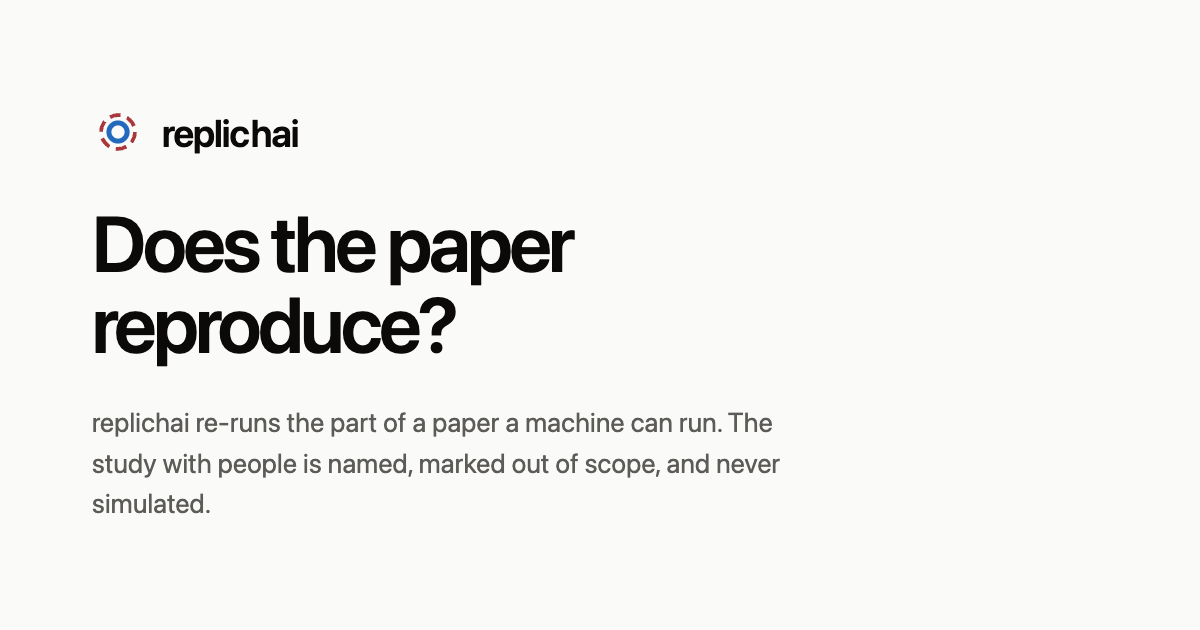
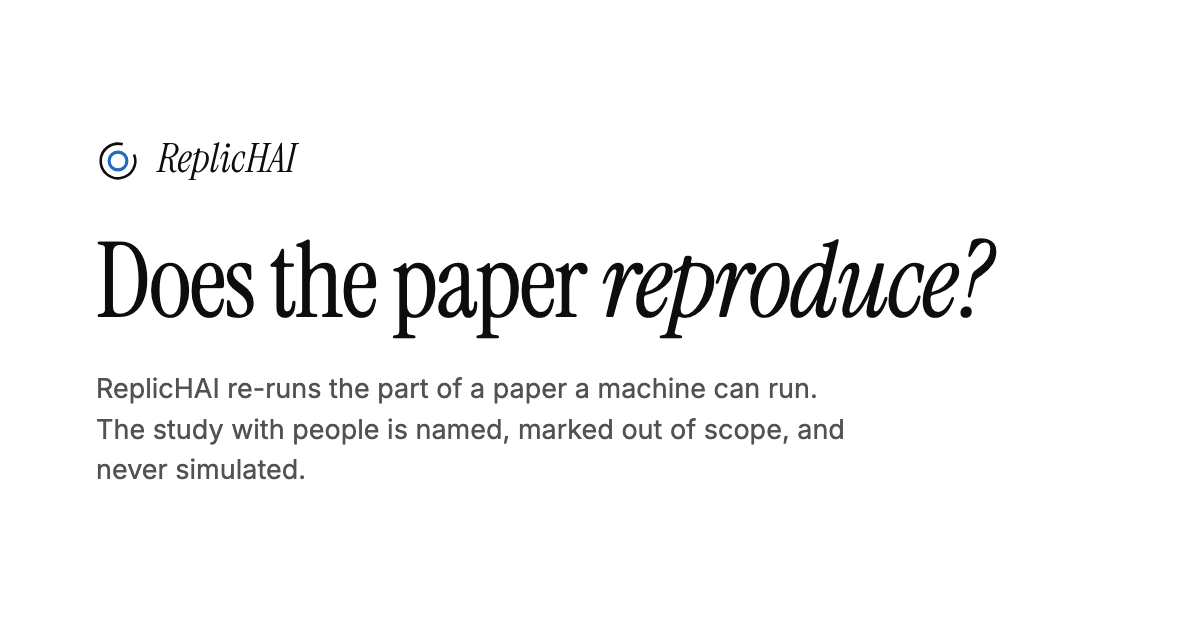
frontend: the mark's outer loop is one open arc, and the wordmark is drawn in the family's serif

Changed region(s): [[0.0617, 0.3317, 0.8325, 0.6333], [0.0617, 0.6635, 0.7092, 0.8143], [0.0617, 0.181, 0.2467, 0.3016]]

diff --git a/frontend/src/brand.tsx b/frontend/src/brand.tsx
@@ -1,27 +1,53 @@
 // SPDX-FileCopyrightText: 2026 Latere AI
 // SPDX-License-Identifier: AGPL-3.0-or-later
 
-// The identity: one drawn mark and one wordmark, used wherever the product
-// names itself. It is kept apart from `icons.tsx` because an icon inherits
-// `currentColor` so the same glyph can sit in a brand button and a muted row,
-// while the mark owns its color and must look the same in every context.
+// The identity: one drawn mark and one drawn wordmark, used wherever the
+// product names itself. It is kept apart from `icons.tsx` because an icon
+// inherits `currentColor` so the same glyph can sit in a button and a muted
+// row, while the mark owns its colors and must look the same in every context.
 //
-// Nothing here depends on a font. The mark it replaced was the character `r`
-// set in `--font-serif: 'Instrument Serif'`, which the app did not ship, so the
-// identity had always rendered in Georgia without anyone deciding that. The
-// app self-hosts the face now, but this file still uses no font: a wordmark
-// that waits on a download can be missing, whether or not the download is in
-// the repo. The shared footer opens with this lockup too, as the header sets it.
+// Nothing here depends on a font. The wordmark is set in the family's face,
+// Instrument Serif italic, the face latere-ui sets the product's name in on
+// every other Latere site, but as outlines rather than as text: an identity
+// that waits on a download can be missing, and one drawn as paths cannot.
 
-// Mark draws the boundary the product defends. The inner loop, the algorithm,
-// model or analysis pipeline, is mechanically re-runnable, so it is a closed
-// ring. The outer loop is the study with human participants, which replichai
-// never simulates, so it is drawn open. The dashes are sized against the outer
-// circumference of 2π × 9.25 ≈ 58.1 to give six even segments, so the ring
-// never shows a short one where it closes. There are six and not more because
-// the mark sits beside spinners in this app, and a ring of many small dashes
-// looks like a spinner.
+// The mark draws the boundary the product defends (017). The inner loop, the
+// algorithm, model or analysis pipeline, is mechanically re-runnable, so it is
+// a closed ring, in the product's azure. The outer loop is the study with human
+// participants, which replichai never simulates, so it is drawn open: one arc
+// with one deliberate gap (047). It was six dashes until 047, and a ring of
+// dashes reads as a loading indicator or a selection marquee; a ring with one
+// gap reads as unfinished, which is the claim.
+//
+// The gap is centered up and to the right, away from the wordmark, so the
+// opening never reads as a letter beside the name. The radius ratio is 017's,
+// so the mark, the hero figure and the favicon are one geometry.
+export const MARK_GAP_AT = -48
+export const MARK_GAP = 52
+
+// markArc is the outer loop's path: a circle of radius r about (cx, cy) with
+// the gap cut out, drawn clockwise from one side of the gap to the other.
+export function markArc(cx: number, cy: number, r: number, gapAt = MARK_GAP_AT, gap = MARK_GAP) {
+  const at = (deg: number) => {
+    const a = (deg * Math.PI) / 180
+    return `${(cx + r * Math.cos(a)).toFixed(3)} ${(cy + r * Math.sin(a)).toFixed(3)}`
+  }
+  return `M${at(gapAt + gap / 2)}A${r} ${r} 0 1 1 ${at(gapAt - gap / 2)}`
+}
+
+// Optical sizes. One drawing at every size is either too thin to survive in a
+// browser tab or too heavy to look exact at the size of a figure, so the
+// strokes thin as the mark grows, and the inner ring stays the heavier of the
+// two at every size because it is the half the product stands behind.
+const OPTICAL = [
+  { upTo: 20, outer: 2.2, inner: 2.4, ri: 4.6, ro: 9.2 },
+  { upTo: 32, outer: 1.8, inner: 2.1, ri: 4.75, ro: 9.35 },
+  { upTo: 64, outer: 1.4, inner: 1.7, ri: 4.85, ro: 9.45 },
+  { upTo: Infinity, outer: 1.05, inner: 1.3, ri: 4.9, ro: 9.55 },
+] as const
+
 export function Mark({ size = 24, className }: { size?: number; className?: string }) {
+  const o = OPTICAL.find((s) => size <= s.upTo) ?? OPTICAL[OPTICAL.length - 1]
   return (
     <svg
       className={className ? `mark ${className}` : 'mark'}
@@ -32,22 +58,37 @@ export function Mark({ size = 24, className }: { size?: number; className?: stri
       aria-hidden="true"
       focusable="false"
     >
-      <circle className="mark-outer" cx="12" cy="12" r="9.25" strokeWidth="1.9" strokeDasharray="6.0 3.687" />
-      <circle className="mark-inner" cx="12" cy="12" r="5" strokeWidth="2.6" />
+      <path className="mark-outer" d={markArc(12, 12, o.ro)} strokeWidth={o.outer} />
+      <circle className="mark-inner" cx="12" cy="12" r={o.ri} strokeWidth={o.inner} />
     </svg>
   )
 }
 
-// Wordmark sets the name as one word with a hairline gap at its seam between
-// `Replic`, for replication, and `HAI`, for human-AI, the lineage the
-// `open-hai` forge account already carries. The seam is spacing, not color:
-// the stylesheet reserves the brand hue for what the operator can act on, and a
-// two-tone wordmark would spend it on decoration.
+// The wordmark's outlines: "Replic" and "HAI" from Instrument Serif italic at
+// 100 units, kerned, with two units of optical gap at the seam. `Replic` is for
+// replication and `HAI` for human-AI, the lineage the `open-hai` forge account
+// carries; the seam is spacing, never color. Regenerate rather than edit: the
+// numbers are the face's, laid out by opentype.js.
+const WORD_W = 353.7
+const WORD_H = 94.8
+const REPLIC = 'M43.8 75.2L43.8 75.2Q39.6 75.2 37 72.2Q34.3 69.2 34.4 63.8L34.4 63.8L34.5 52.7Q34.6 47.3 33.9 44.5Q33.2 41.7 31.3 40.7Q29.4 39.7 25.7 39.7L25.7 39.7Q23.5 39.7 22.5 40.5Q21.4 41.3 21 43L21 43L15.2 67.3Q14.7 69.4 15.3 70.2Q15.9 71 18.4 71.4L18.4 71.4L22.8 72Q24.2 72.1 24.2 73.1L24.2 73.1Q24.2 74.3 22.6 74.3L22.6 74.3L1.4 74.3Q0 74.3 0 73.3L0 73.3Q0 72.2 2 71.9L2 71.9L4 71.6Q6.2 71.3 7.1 70.6Q7.9 69.8 8.3 67.7L8.3 67.7L21.9 8.9Q22.4 6.8 21.9 6.1Q21.4 5.4 19.4 5L19.4 5L17.4 4.6Q16.1 4.3 16.1 3.5L16.1 3.5Q16.1 2.3 17.9 2.3L17.9 2.3L38.2 2.3Q44.1 2.3 48 4.4Q51.9 6.5 53.9 10Q55.8 13.5 55.8 17.7L55.8 17.7Q55.8 23 53.1 27.3Q50.4 31.6 46.1 34.6Q41.7 37.5 36.7 38.9L36.7 38.9Q36.1 39 36.1 39.4Q36 39.9 36.6 40.2L36.6 40.2Q39.4 41.7 40.4 44.4Q41.4 47.1 41.4 51.6L41.4 51.6L41.4 61.8Q41.4 67.3 42.6 69.4Q43.8 71.4 45.9 71.4L45.9 71.4Q46.7 71.4 47.3 71.1Q47.9 70.9 48.9 70.2L48.9 70.2Q49.7 69.5 50.4 69.8Q51 70.1 51 70.9L51 70.9Q51 72.3 48.9 73.8Q46.8 75.2 43.8 75.2ZM29.2 37.2L29.2 37.2Q34.2 37.2 38.6 34.5Q43 31.8 45.8 27.2Q48.5 22.6 48.5 16.9L48.5 16.9Q48.5 11.3 45.8 8Q43 4.8 36.2 4.8L36.2 4.8Q29.8 4.8 28.8 8.8L28.8 8.8L23.5 31.7Q22.2 37.2 29.2 37.2ZM65.8 75.2L65.8 75.2Q60.5 75.2 57.3 71.1Q54.1 66.9 54.1 59.3L54.1 59.3Q54.1 52.7 56.5 46.2Q58.8 39.7 62.6 34.4Q66.4 29.1 70.9 25.9Q75.5 22.7 79.8 22.7L79.8 22.7Q84.5 22.7 86.5 24.9Q88.6 27.2 88.6 31L88.6 31Q88.6 35.5 85.4 39.9Q82.3 44.4 76.6 47.9Q71 51.4 63.4 53.1L63.4 53.1Q61.2 53.6 61.1 55.6L61.1 55.6Q61 56.3 61 57.1Q61 57.8 61 58.5L61 58.5Q61 64.2 63 67.1Q64.9 70 68.3 70L68.3 70Q72.1 70 75.6 66.5Q79.2 63 81.6 56.6L81.6 56.6Q81.9 55.7 82.8 55.7L82.8 55.7Q83.4 55.7 83.6 56.2Q83.7 56.7 83.5 57.4L83.5 57.4Q80.3 66.2 75.8 70.7Q71.2 75.2 65.8 75.2ZM62.1 49.3L62.1 49.3Q61.9 50 62.4 50.4Q62.8 50.9 63.5 50.7L63.5 50.7Q69.7 49 73.9 45.6Q78.1 42.1 80.3 37.8Q82.4 33.5 82.4 29.4L82.4 29.4Q82.4 25.2 79.1 25.2L79.1 25.2Q76.2 25.2 72.8 28.6Q69.4 32 66.5 37.5Q63.6 43 62.1 49.3ZM98.1 94.8L80.1 94.8Q78.8 94.8 78.8 93.7L78.8 93.7Q78.8 92.7 80.4 92.5L80.4 92.5L81.8 92.3Q83.8 92 84.7 91.2Q85.7 90.3 86.2 88.1L86.2 88.1L99.5 30.7Q99.7 29.9 99.2 29.4Q98.8 29 98 29.5L98 29.5Q97 30 96.1 30.6Q95.2 31.1 94.3 31.7L94.3 31.7Q93.4 32.3 92.8 32.1Q92.2 31.8 92.2 31.1L92.2 31.1Q92.2 30.4 93.2 29.7L93.2 29.7Q96 27.8 99 26.4L99 26.4Q100.7 25.6 101.1 23.8L101.1 23.8L102.4 18.1Q102.9 16 105 16L105 16L106.8 16Q108 16 108.6 16.7Q109.2 17.4 108.9 18.7L108.9 18.7L108.2 21.6Q107.9 23.3 109.5 23L109.5 23Q111.8 22.7 113.9 22.7L113.9 22.7Q121.3 22.7 126 26.9Q130.7 31.1 130.7 39.8L130.7 39.8Q130.7 46.6 128.2 53Q125.7 59.3 121.6 64.3Q117.5 69.3 112.6 72.3Q107.7 75.2 102.8 75.2L102.8 75.2Q100.1 75.2 97.7 74.1L97.7 74.1Q96.2 73.4 95.9 74.9L95.9 74.9L92.9 88.1Q92.4 90.3 92.9 91Q93.5 91.7 95.4 92L95.4 92L98 92.4Q99.8 92.7 99.8 93.6L99.8 93.6Q99.8 94.8 98.1 94.8L98.1 94.8ZM106.6 28.8L98.7 62.8Q96.9 72.7 103 72.7L103 72.7Q106.5 72.7 110.1 69.8Q113.7 66.8 116.8 61.9Q119.9 56.9 121.8 50.7Q123.7 44.5 123.7 38L123.7 38Q123.7 31.3 120.8 28.3Q117.9 25.4 112.3 25.4L112.3 25.4Q107.3 25.4 106.6 28.8L106.6 28.8ZM140.1 75.3L140.1 75.3Q136.8 75.3 135.4 72.9Q134 70.4 135.3 64.8L135.3 64.8L148 10.3Q148.5 8.5 148 7.8Q147.6 7.1 146.2 7L146.2 7L143.2 6.7Q141.7 6.6 141.9 5.4L141.9 5.4Q142.1 4.5 143.3 4.3L143.3 4.3Q146.9 3.7 149.7 2.8Q152.5 2 154.2 0.6L154.2 0.6Q155 0 155.7 0L155.7 0Q156.9 0 156.6 1.5L156.6 1.5L141.8 64.9Q141.3 67.1 141.6 68.4Q142 69.6 143.5 69.6L143.5 69.6Q145.3 69.6 147.5 67Q149.6 64.3 152.3 56.9L152.3 56.9Q152.7 55.6 153.7 55.6L153.7 55.6Q155.2 55.6 154.5 57.4L154.5 57.4Q152.4 64.2 149.9 68.1Q147.3 72.1 144.8 73.7Q142.3 75.3 140.1 75.3ZM177.1 13.8L177.1 13.8Q175.2 13.8 174 12.4Q172.7 11.1 172.7 9.2L172.7 9.2Q172.7 6.5 174.4 4.9Q176 3.3 178.1 3.3L178.1 3.3Q180.1 3.3 181.5 4.5Q182.8 5.8 182.8 7.8L182.8 7.8Q182.8 10.6 181.1 12.2Q179.4 13.8 177.1 13.8ZM168.9 75.3L168.9 75.3Q165.6 75.3 164.2 72.9Q162.8 70.4 164.1 64.8L164.1 64.8L171.5 33.1Q172 30.9 171.6 29.6Q171.3 28.4 169.8 28.4L169.8 28.4Q168 28.4 165.9 31.1Q163.7 33.7 161 41.1L161 41.1Q160.6 42.4 159.6 42.4L159.6 42.4Q158.1 42.4 158.8 40.6L158.8 40.6Q161 33.7 163.5 29.8Q165.9 25.9 168.4 24.3Q170.9 22.7 173 22.7L173 22.7Q176.5 22.7 177.9 25.1Q179.3 27.6 178 33.2L178 33.2L170.6 64.9Q170.1 67.1 170.5 68.4Q170.8 69.6 172.3 69.6L172.3 69.6Q174.1 69.6 176.3 67Q178.4 64.3 181.1 56.9L181.1 56.9Q181.5 55.6 182.5 55.6L182.5 55.6Q184 55.6 183.3 57.4L183.3 57.4Q181.2 64.2 178.7 68.1Q176.1 72.1 173.6 73.7Q171.1 75.3 168.9 75.3ZM199.7 75.2L199.7 75.2Q194.2 75.2 190.6 70.6Q187 66.1 187 59L187 59Q187 52.3 189.2 45.8Q191.3 39.4 195 34.1Q198.6 28.9 203.1 25.8Q207.5 22.7 212 22.7L212 22.7Q216.8 22.7 220.1 25.3L220.1 25.3Q220.6 25.7 220.7 25.9Q220.8 26.2 220.6 27L220.6 27L217.9 40.1Q217.6 41.5 216.6 41.5L216.6 41.5Q215.5 41.5 215.3 40L215.3 40L214.8 32.9Q214.5 28.3 213.5 26.9Q212.4 25.5 210.4 25.5L210.4 25.5Q207.6 25.5 204.7 28.2Q201.8 31 199.4 35.6Q196.9 40.3 195.5 45.9Q194 51.6 194 57.4L194 57.4Q194 70 202.2 70L202.2 70Q206.1 70 209.3 66.4Q212.4 62.8 215.1 55.2L215.1 55.2Q215.4 54.2 216.5 54.2L216.5 54.2Q217.1 54.2 217.2 54.6Q217.3 55.1 217 56.4L217 56.4Q216 61.9 213.4 66.1Q210.8 70.3 207.3 72.8Q203.7 75.2 199.7 75.2Z'
+const HAI = 'M238.4 74.3L220.4 74.3Q219 74.3 219 73.3L219 73.3Q219 72.2 221 71.9L221 71.9L223 71.6Q225.2 71.3 226.1 70.6Q226.9 69.8 227.3 67.7L227.3 67.7L240.9 8.9Q241.4 6.8 240.9 6.1Q240.4 5.4 238.4 5L238.4 5L236.4 4.6Q235.1 4.3 235.1 3.5L235.1 3.5Q235.1 2.3 236.9 2.3L236.9 2.3L254.9 2.3Q256.3 2.3 256.3 3.4L256.3 3.4Q256.3 4.5 254.5 4.7L254.5 4.7L252.1 5Q249.9 5.3 249.1 6.1Q248.3 6.9 247.8 9L247.8 9L242 34.1Q241.7 35.5 243.1 35.5L243.1 35.5L262.9 35.5Q264.3 35.5 264.6 34.1L264.6 34.1L270.4 9Q270.9 6.9 270.4 6.1Q269.9 5.3 267.9 5L267.9 5L265.7 4.7Q264.3 4.6 264.3 3.5L264.3 3.5Q264.3 2.3 266.2 2.3L266.2 2.3L284.2 2.3Q285.6 2.3 285.6 3.3L285.6 3.3Q285.6 4.4 283.6 4.7L283.6 4.7L281.6 5Q279.4 5.3 278.6 6Q277.8 6.8 277.3 8.9L277.3 8.9L263.7 67.7Q263.3 69.8 263.8 70.5Q264.2 71.2 266.2 71.6L266.2 71.6L268.2 72Q269.5 72.3 269.5 73.1L269.5 73.1Q269.5 74.3 267.7 74.3L267.7 74.3L249.7 74.3Q248.3 74.3 248.3 73.2L248.3 73.2Q248.3 72.1 250.1 71.9L250.1 71.9L252.5 71.6Q254.7 71.3 255.6 70.5Q256.4 69.7 256.8 67.6L256.8 67.6L263.2 39.9Q263.5 38.5 262.2 38.5L262.2 38.5L242.4 38.5Q240.9 38.5 240.6 39.9L240.6 39.9L234.2 67.6Q233.8 69.7 234.3 70.5Q234.7 71.3 236.7 71.6L236.7 71.6L238.9 71.9Q240.3 72 240.3 73.1L240.3 73.1Q240.3 74.3 238.4 74.3L238.4 74.3ZM284.4 74.3L269.9 74.3Q268.7 74.3 268.7 73.3L268.7 73.3Q268.7 72.4 270.3 72L270.3 72L271.9 71.7Q273.9 71.3 275.4 69.8Q276.8 68.2 278.1 65.4L278.1 65.4L308 2.9Q308.5 1.9 309 1.6Q309.5 1.3 309.9 1.3L309.9 1.3Q310.4 1.3 310.8 1.6Q311.1 1.9 311.1 2.9L311.1 2.9L312.2 66.3Q312.3 69.1 312.9 70.1Q313.5 71.2 315.4 71.7L315.4 71.7L316.7 72Q317.9 72.3 317.9 73.2L317.9 73.2Q317.9 74.3 316.2 74.3L316.2 74.3L299.7 74.3Q298.4 74.3 298.4 73.3L298.4 73.3Q298.4 72.2 300.4 72L300.4 72L302.4 71.8Q304.1 71.6 304.8 70.7Q305.4 69.8 305.4 67.6L305.4 67.6L305.2 52.1Q305.2 49.5 302.5 49.5L302.5 49.5L291.8 49.5Q289.2 49.5 287.9 52.1L287.9 52.1L281.4 65.5Q278.7 71.2 283.2 71.8L283.2 71.8L284.6 72Q286.1 72.2 286.1 73.2L286.1 73.2Q286.1 74.3 284.4 74.3L284.4 74.3ZM292.2 46.5L292.2 46.5L303.4 46.5Q305.1 46.5 305.1 44.8L305.1 44.8L304.9 17.5L304.4 17.5L291.3 44.8Q290.9 45.5 291.2 46Q291.5 46.5 292.2 46.5ZM335.8 74.3L318 74.3Q316.6 74.3 316.6 73.3L316.6 73.3Q316.6 72.2 318.6 71.9L318.6 71.9L320.6 71.6Q322.8 71.3 323.7 70.6Q324.5 69.8 324.9 67.7L324.9 67.7L338.5 8.9Q339 6.8 338.5 6.1Q338 5.4 336 5L336 5L334 4.6Q332.7 4.3 332.7 3.5L332.7 3.5Q332.7 2.3 334.5 2.3L334.5 2.3L352.3 2.3Q353.7 2.3 353.7 3.3L353.7 3.3Q353.7 4.4 351.7 4.7L351.7 4.7L349.7 5Q347.5 5.3 346.7 6Q345.9 6.8 345.4 8.9L345.4 8.9L331.8 67.7Q331.4 69.8 331.8 70.5Q332.3 71.2 334.3 71.6L334.3 71.6L336.3 72Q337.6 72.3 337.6 73.1L337.6 73.1Q337.6 74.3 335.8 74.3L335.8 74.3Z'
+
+// Wordmark is sized by the font size it sits in, like the text it replaced:
+// the drawing is one em of the face tall from its ascender to its descender,
+// and its baseline sits on the surrounding text's baseline.
 export function Wordmark({ className }: { className?: string }) {
   return (
-    <span className={className ? `wordmark ${className}` : 'wordmark'}>
-      Replic<span className="wordmark-seam">HAI</span>
-    </span>
+    <svg
+      className={className ? `wordmark ${className}` : 'wordmark'}
+      viewBox={`0 0 ${WORD_W} ${WORD_H}`}
+      role="img"
+      aria-label="ReplicHAI"
+      focusable="false"
+    >
+      <path d={REPLIC} />
+      <path className="wordmark-seam" d={HAI} />
+    </svg>
   )
 }
 
@@ -86,10 +127,11 @@ export function LatereMark({ height = 11, className }: { height?: number; classN
 }
 
 // Lockup is the pair at a fixed optical relationship, so no caller has to
-// re-derive how big the mark is beside the name.
+// re-derive how big the mark is beside the name. The name is set a touch
+// smaller than the mark, which is what the family's lockups do.
 export function Lockup({ size = 22, className }: { size?: number; className?: string }) {
   return (
-    <span className={className ? `lockup ${className}` : 'lockup'} style={{ fontSize: size * 0.86 }}>
+    <span className={className ? `lockup ${className}` : 'lockup'} style={{ fontSize: size * 0.92 }}>
       <Mark size={size} />
       <Wordmark />
     </span>

diff --git a/frontend/src/styles.css b/frontend/src/styles.css
@@ -407,32 +407,33 @@ textarea {
   flex: 0 0 auto;
   display: block;
 }
-/* The mark's two loops use vlag's two poles. The outer ring, the study with
-   people that is never simulated, takes the warm crimson, which is vlag's warm
-   pole and the hue --err also carries. The inner ring, the part a machine
-   re-runs, takes the cool azure, the brand pole. The color carries the
-   meaning, so the two never swap. */
+/* The mark's two colors: the outer ring, the study with people that is never
+   simulated, in ink like every Latere mark; the inner ring, the part a machine
+   re-runs, in the product's azure. The color carries the meaning, so the two
+   never swap (047). */
 .mark-outer {
-  stroke: var(--err);
+  stroke: var(--fg-1);
 }
 .mark-inner {
-  stroke: var(--brand);
+  stroke: var(--azure);
 }
-/* The name, with a hairline gap at the seam between replic and hai. The
-   tracking is tightened and the seam adds a fraction of it back, so the break
-   is visible at any size without reading as a typo. */
+/* The name, drawn (brand.tsx). One em of the face tall from ascender to
+   descender, so it is sized by the font size it sits in, and lowered by its
+   descender so its baseline is the line's. */
 .wordmark {
-  font-weight: 600;
-  letter-spacing: -0.035em;
-}
-.wordmark-seam {
-  margin-left: 0.055em;
+  display: inline-block;
+  flex: none;
+  width: 3.537em;
+  height: 0.948em;
+  vertical-align: -0.205em;
+  fill: currentColor;
 }
 .lockup {
   display: inline-flex;
   align-items: center;
-  gap: 0.42em;
+  gap: 0.4em;
   line-height: 1;
+  color: var(--fg-1);
 }
 /* Kept as a selector hook only: the fold rule hides it, and the SVG carries its
    own size. */
